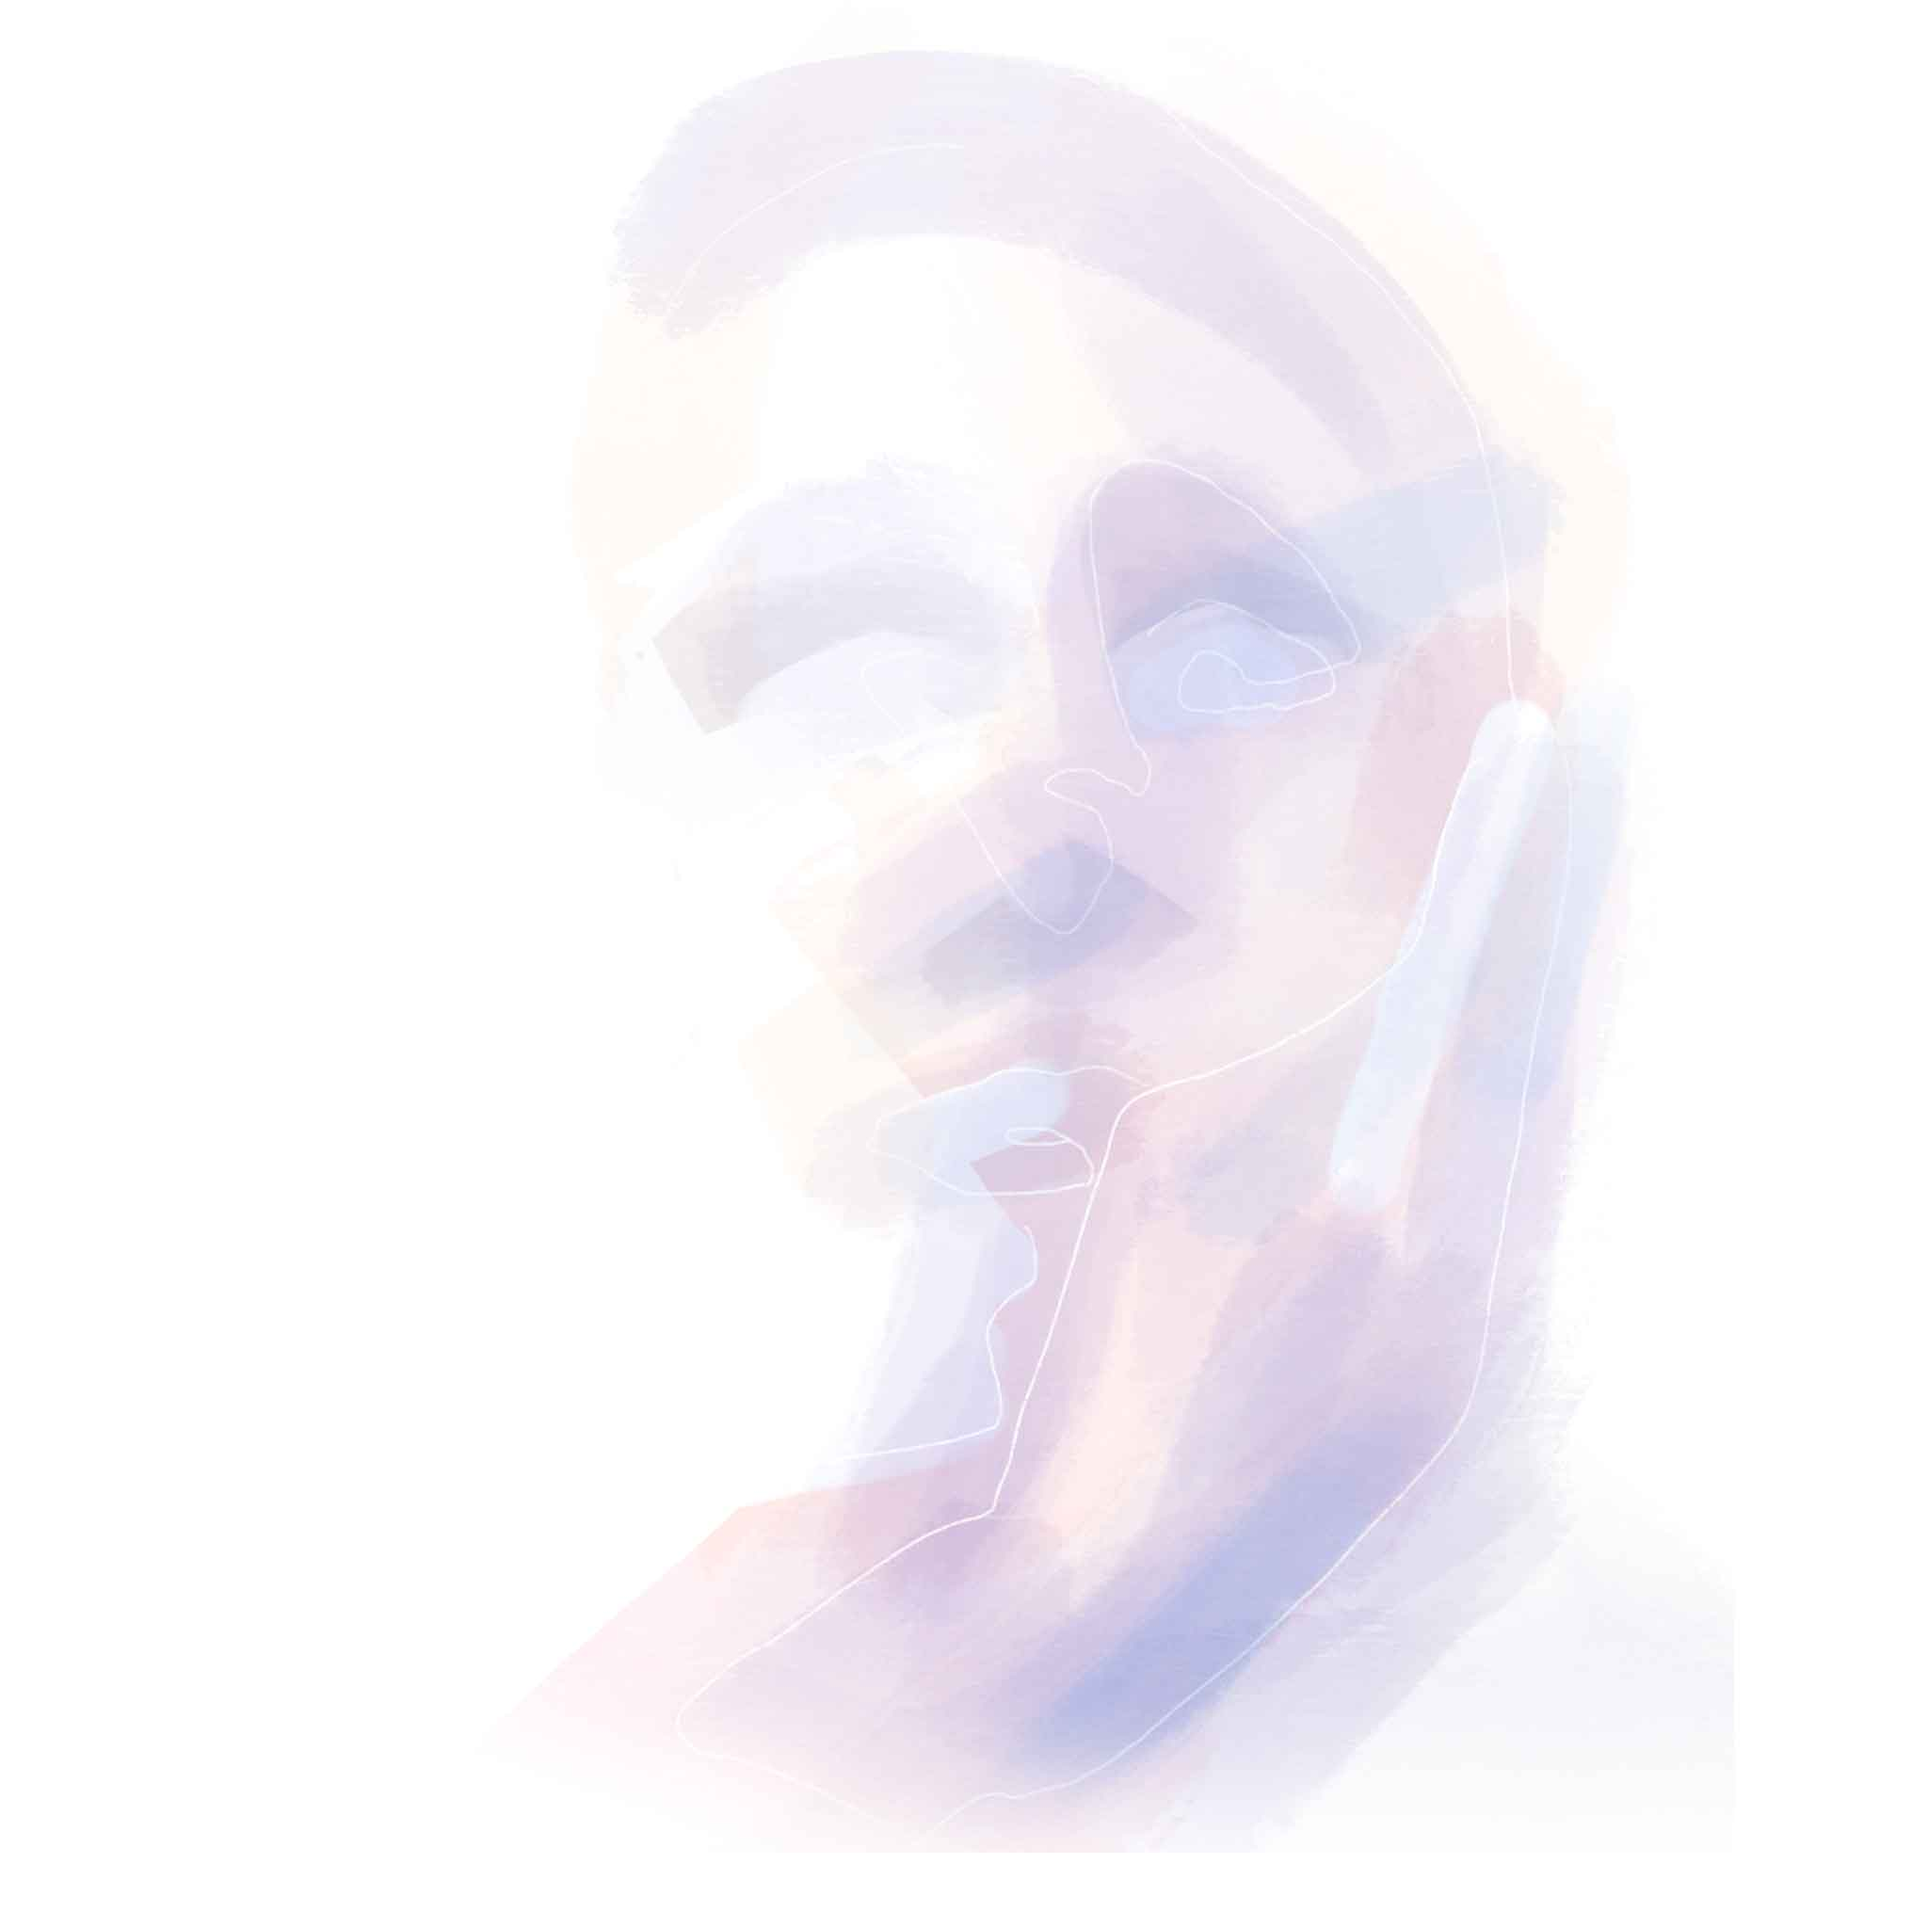
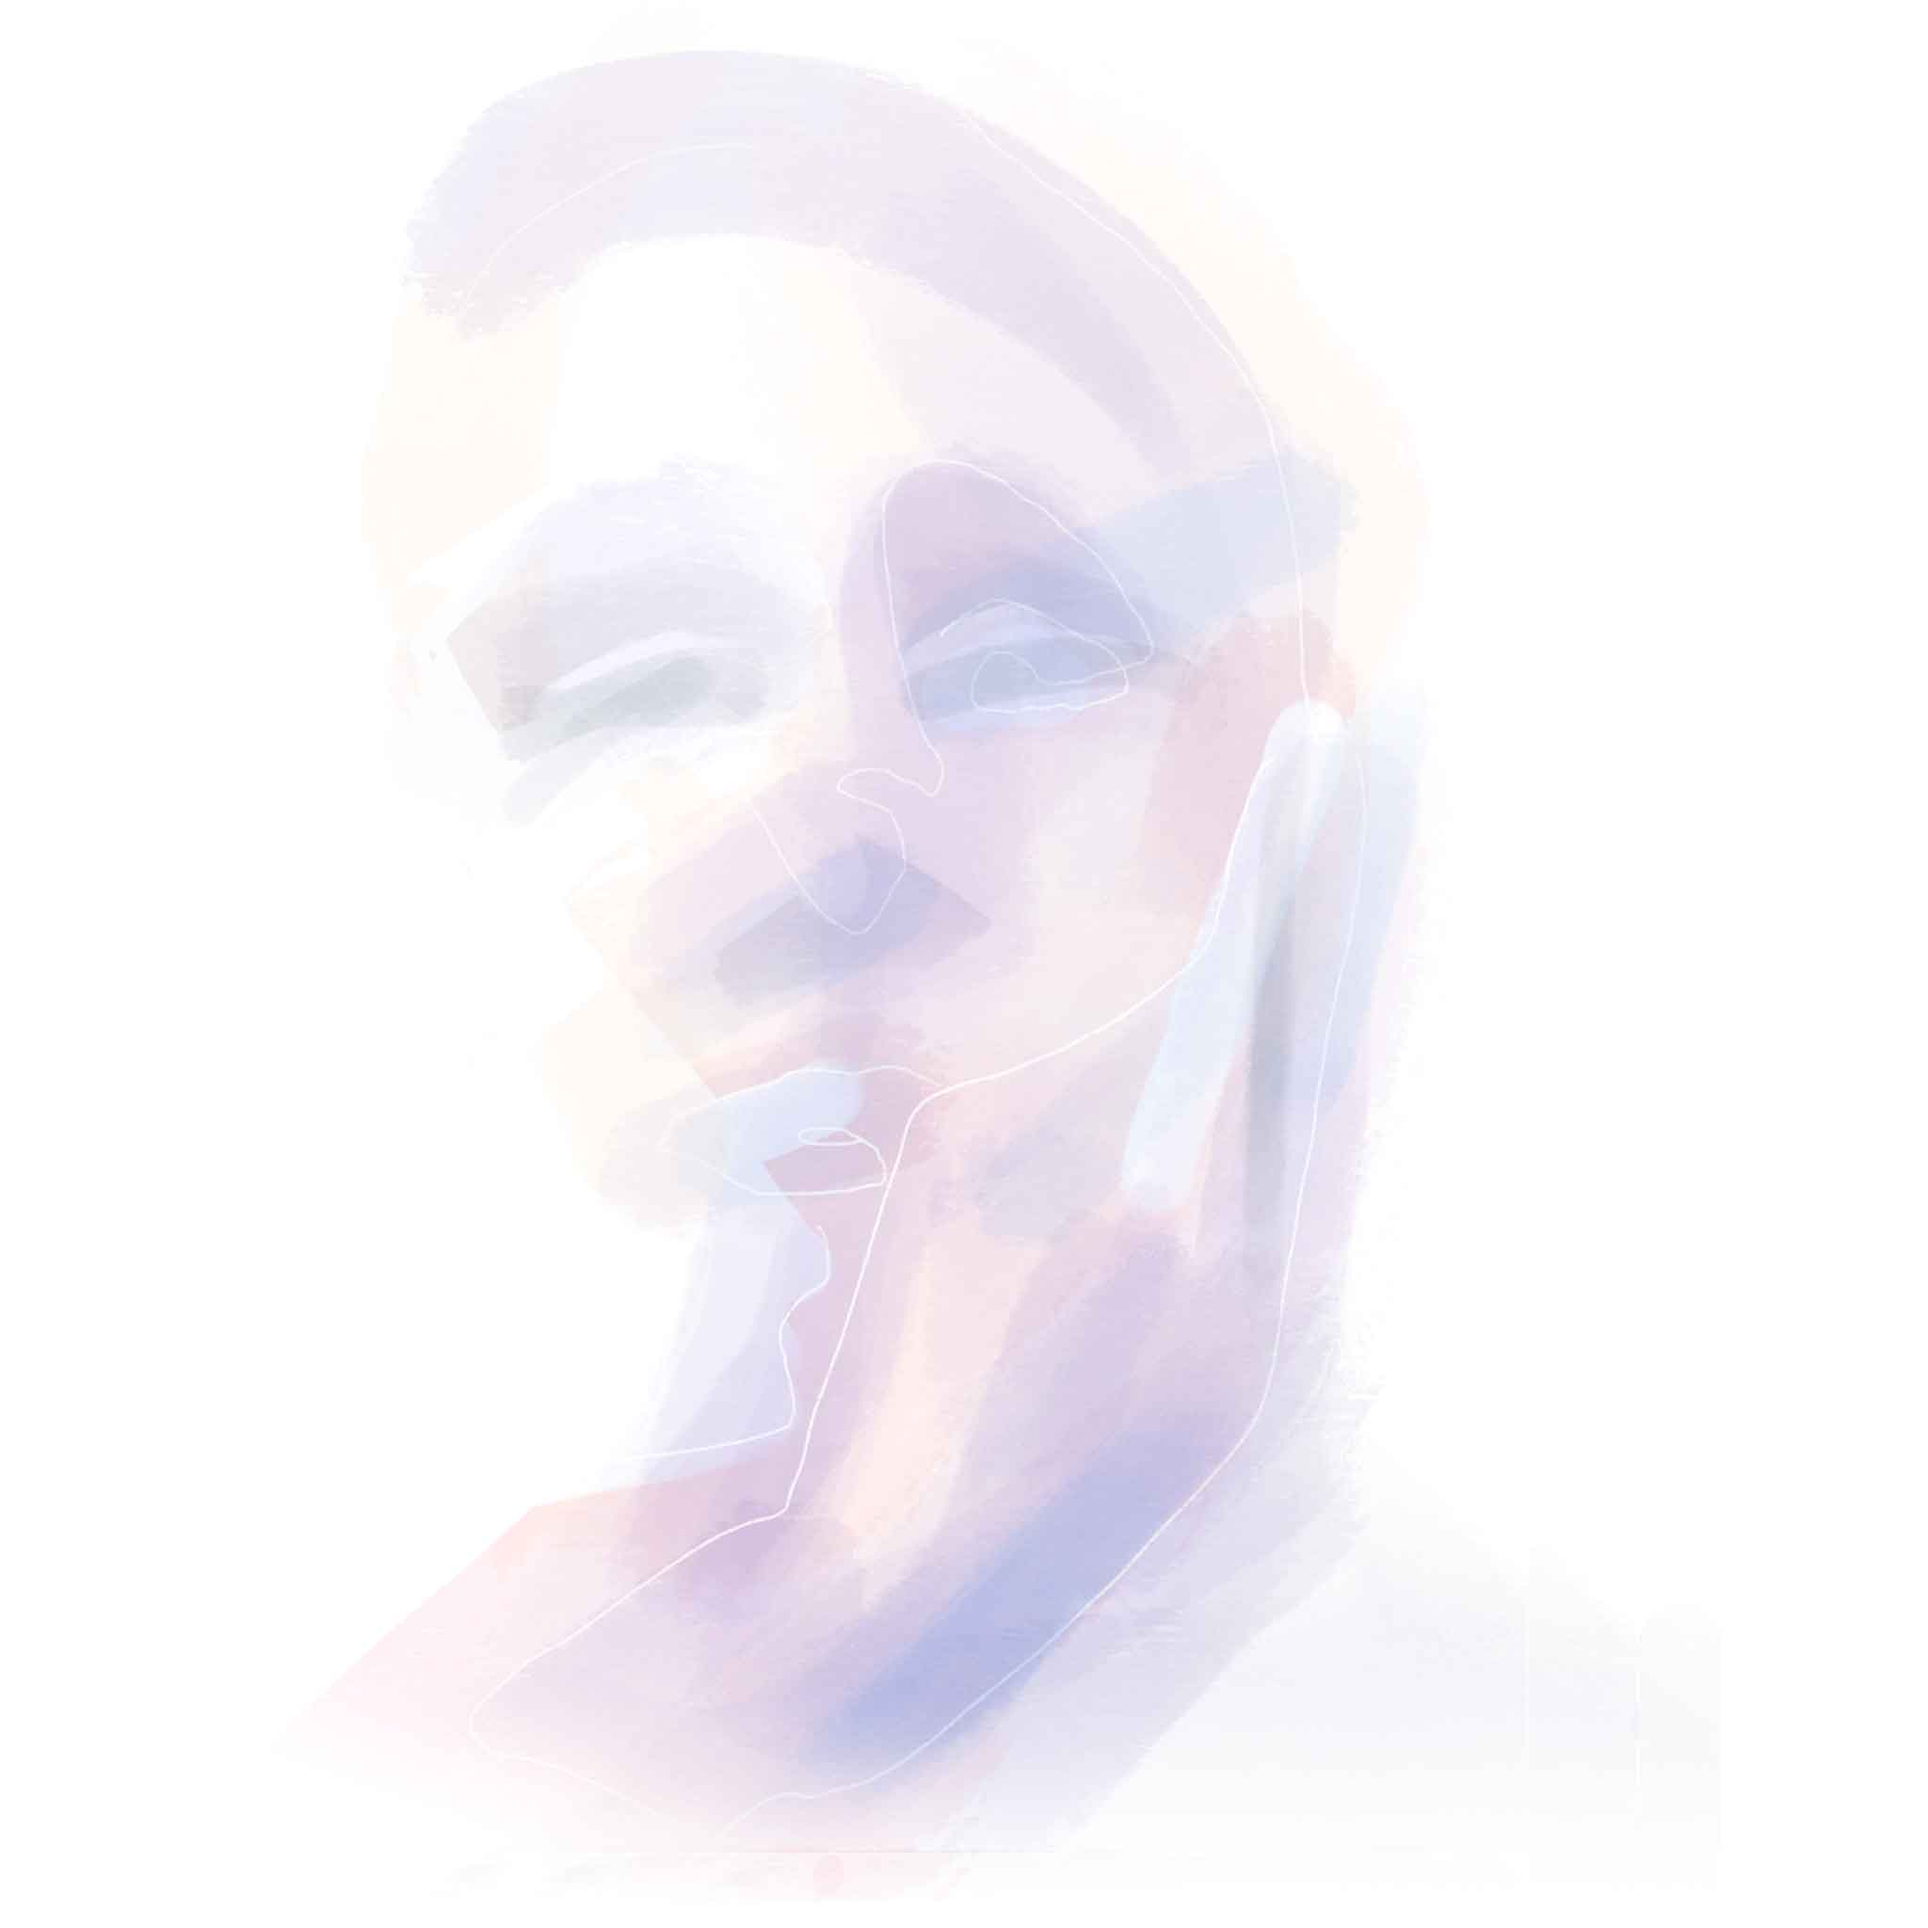
modify the face illustration to remove whitespace and give all the illustrations one more column to cover

diff --git a/_includes/assets/css/inline.css b/_includes/assets/css/inline.css
@@ -466,7 +466,7 @@ section nav {
 
 	.image-section-01 .a,  
 	.image-section-03 .a {
-		grid-column: 1 / span 6;
+		grid-column: 1 / span 7;
 		grid-row: 1;
 	}
 	.image-section-01 .c {
@@ -483,12 +483,13 @@ section nav {
 	}
 
 	.image-section-02 .a {
-		grid-column: 6 / span 6;
+		grid-column: 5 / span 7;
 		grid-row: 1;
 	}
 	.image-section-02 .b {
 		grid-column: 4 / span 4;
 		grid-row: 1;
+		z-index: 1000;
 		padding: 0 1rem;
 	}
 	.image-section-02 .c {

diff --git a/pages/home.md b/pages/home.md
@@ -15,13 +15,6 @@ permalink: /
     /static/img/assets/Face@0,5x.jpg 1024w, 
     /static/img/assets/Face.jpg 2048w" alt="a colorful face">
   </div>
-  <div class="c">
-    <!-- <img 
-    src="/static/img/assets/splash-1-blue@0,25x.png" 
-    srcset="
-    /static/img/assets/splash-1-blue@0,5x.png 1024w, 
-    /static/img/assets/splash-1-blue.png 2048w" alt=""> -->
-  </div>
   <div class="b">
   <h1 id="process">The Process</h1>
 
@@ -39,13 +32,6 @@ No one comes to a healer without a reason. Our lives are complicated and messy a
     srcset="
     /static/img/assets/Hand@0,5x.jpg 1024w, 
     /static/img/assets/Hand.jpg 2048w" alt="a colorful open hand">
-  </div>
-  <div class="c">
-    <!-- <img 
-    src="/static/img/assets/Color_splash-2@0,25x.png" 
-    srcset="
-    /static/img/assets/Color_splash-2@0,5x.png 1024w, 
-    /static/img/assets/Color_splash-2.png 2048w" alt=""> -->
   </div>
   <div class="b">
 <h1 id="offerings">Offerings</h1>
@@ -65,13 +51,6 @@ We will dedicate our time together to re-balance how you experience life's chall
     srcset="
     /static/img/assets/Eyes_2@0,5x.jpg 1024w, 
     /static/img/assets/Eyes_2.jpg 2048w" alt="zoom in on healing eyes">
-  </div>
-  <div class="c">
-    <!-- <img 
-    src="/static/img/assets/Color_splash-2@0,25x.png" 
-    srcset="
-    /static/img/assets/Color_splash-2@0,5x.png 1024w, 
-    /static/img/assets/Color_splash-2.png 2048w" alt=""> -->
   </div>
   <div class="b">
 <h1 id="offerings">Booking & Fees</h1>
